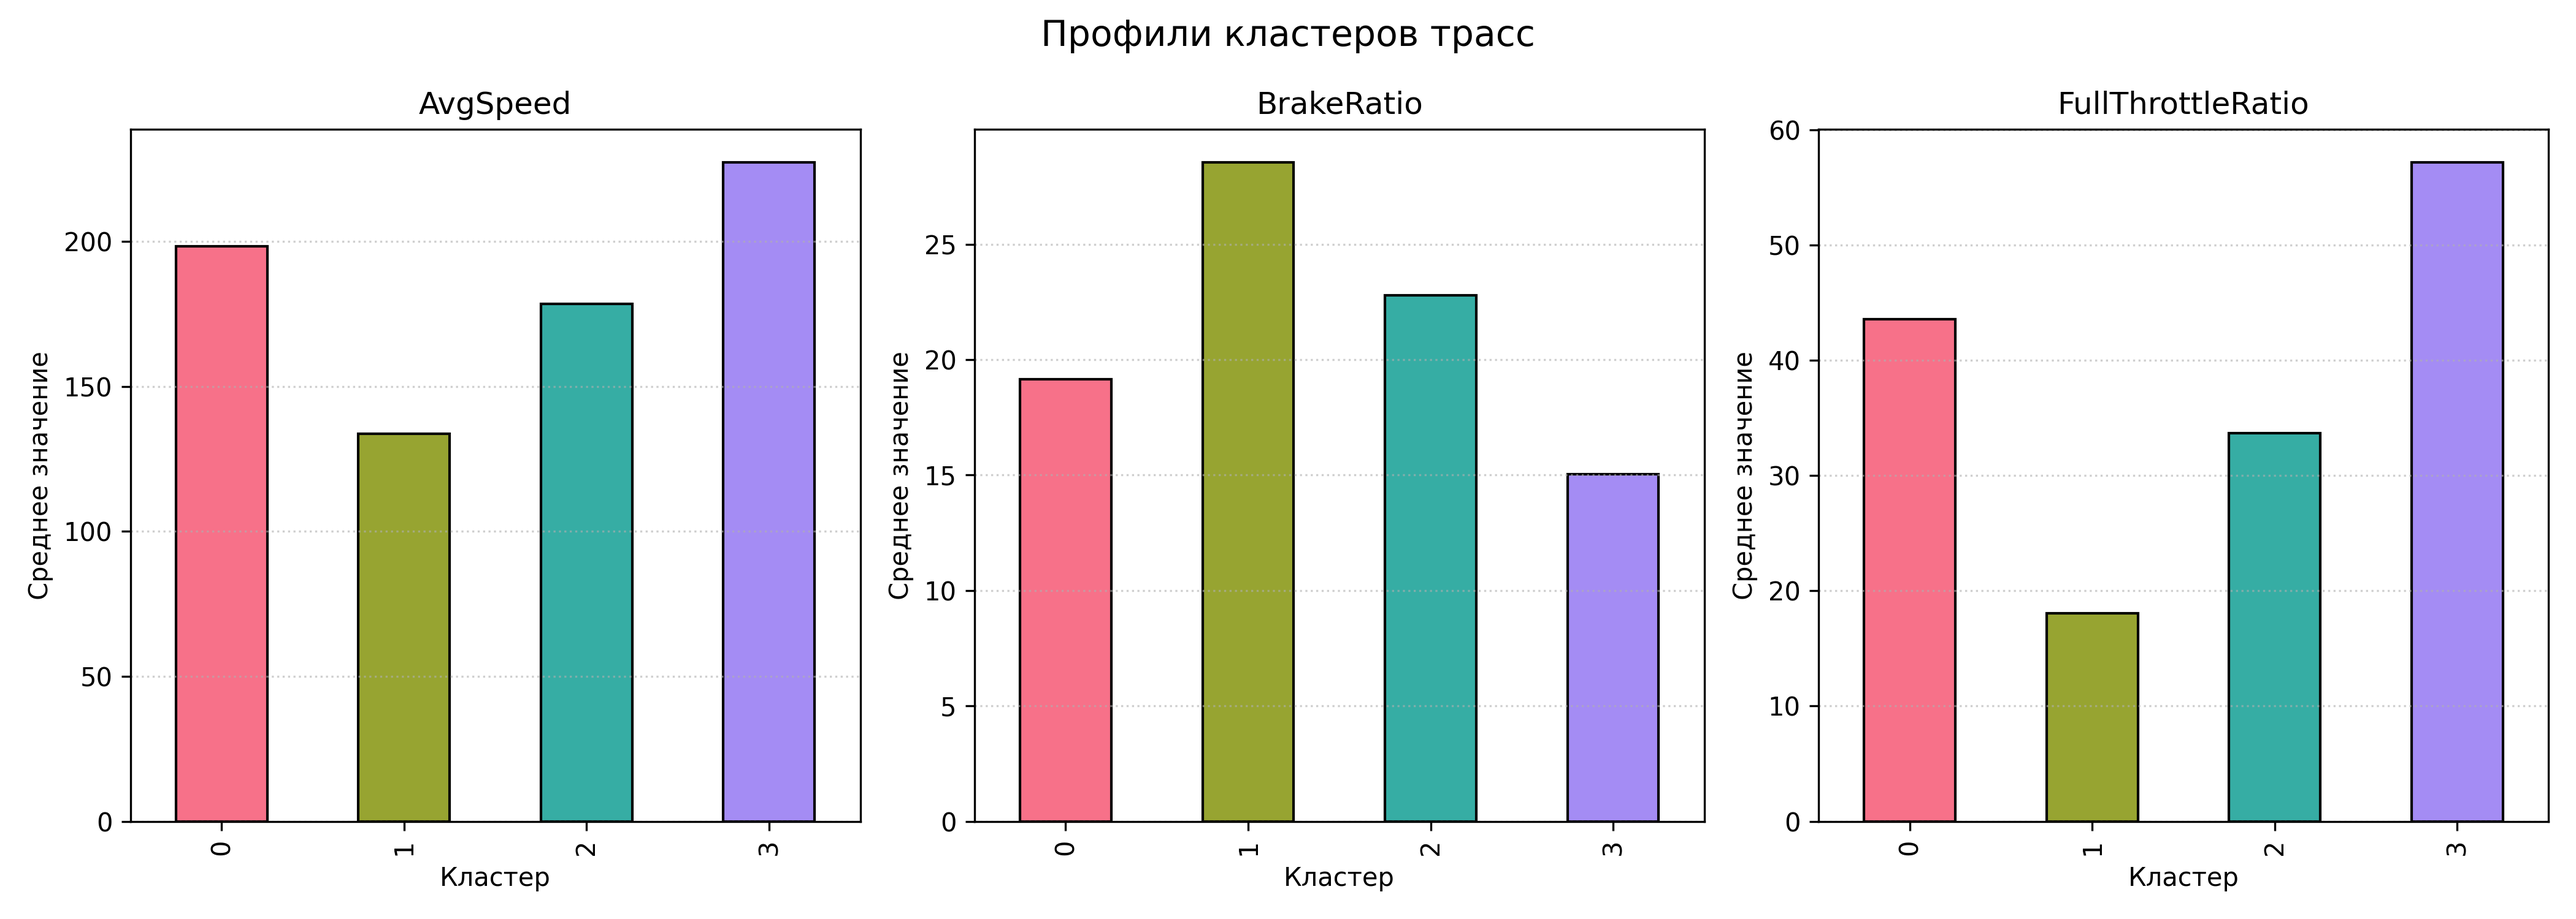
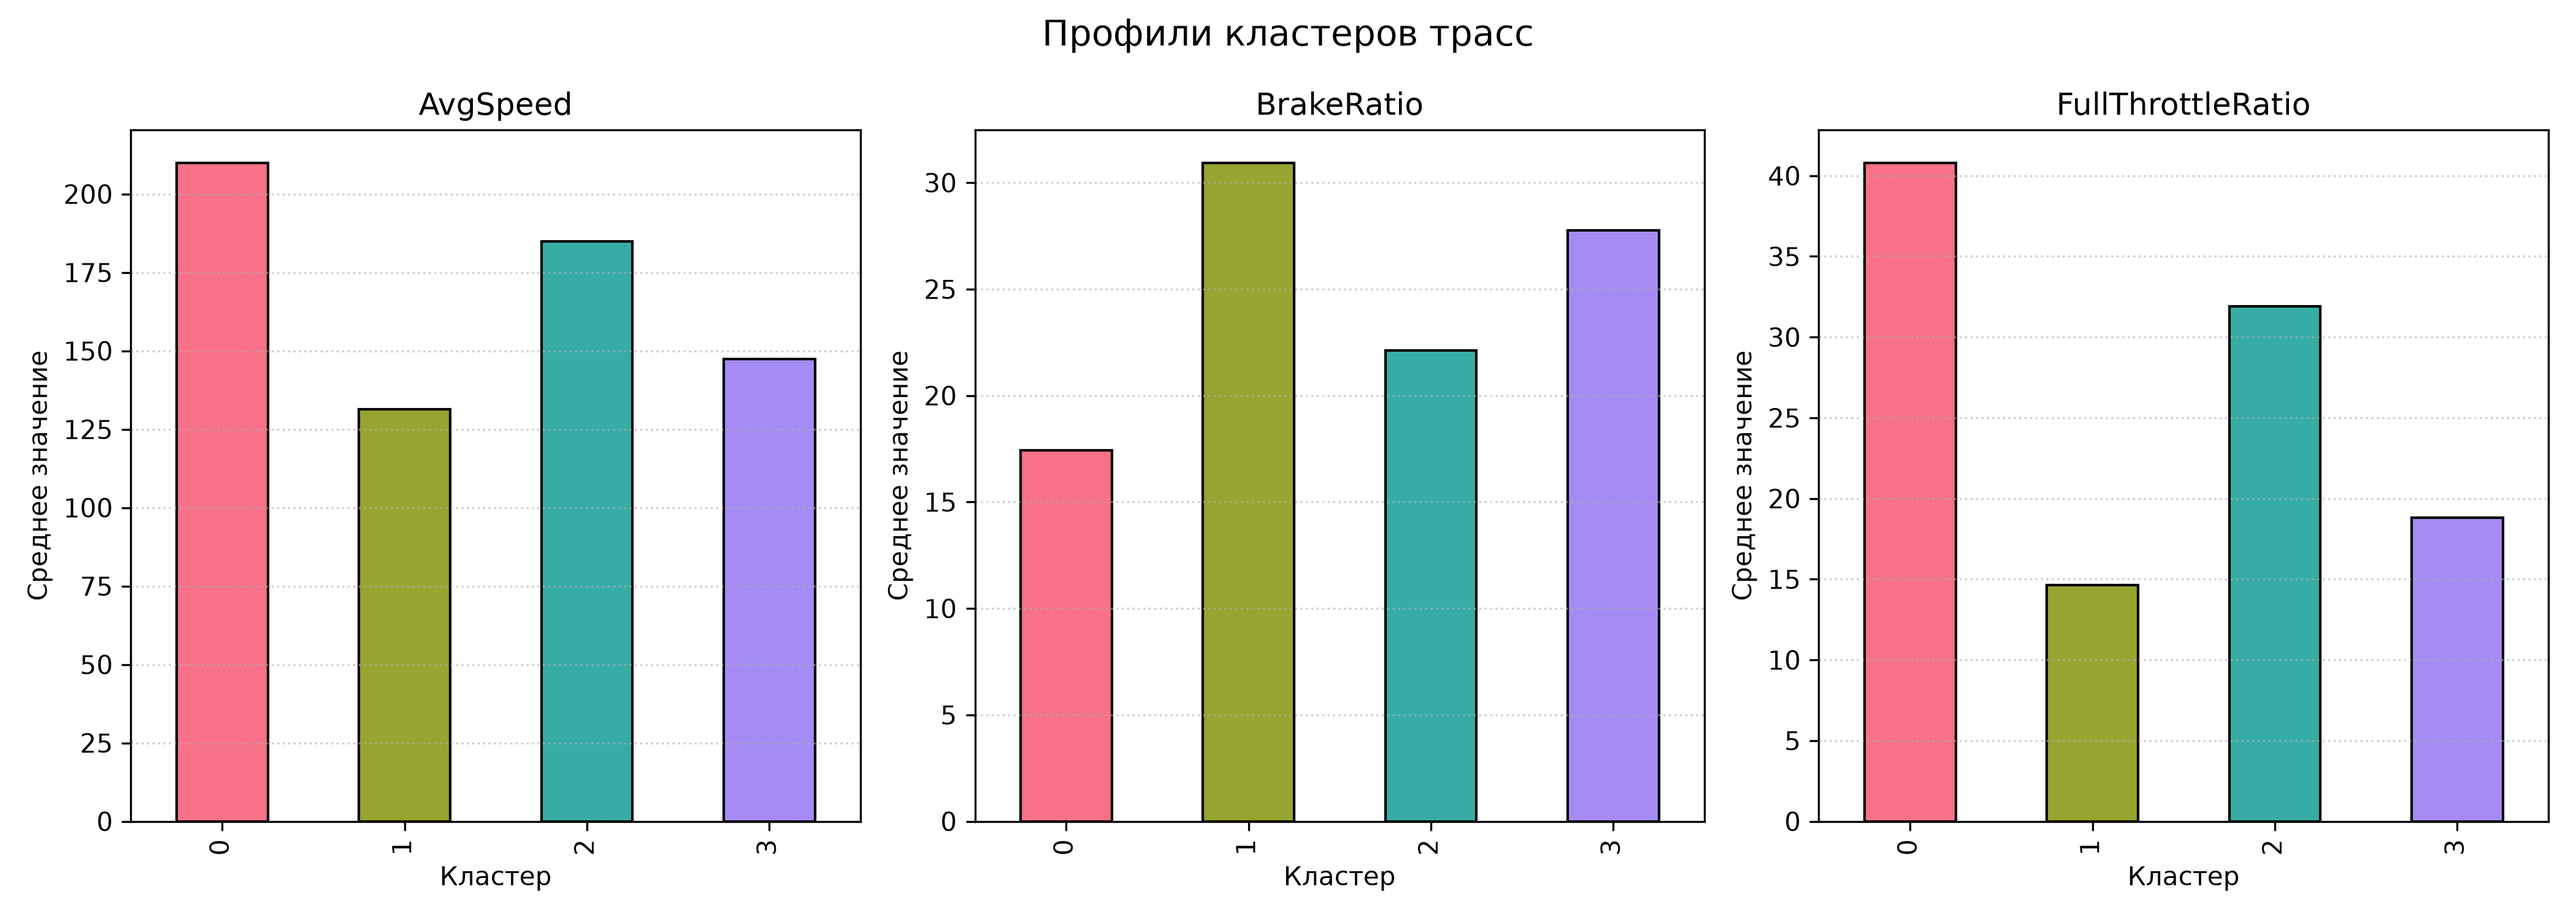
fix: added dashboards to tasks 3 and 4

diff --git a/data_processor/3/spark_processor.py b/data_processor/3/spark_processor.py
@@ -3,23 +3,45 @@ import sys
 import glob
 from pathlib import Path
 
+# --- 1. АВТОМАТИЧЕСКАЯ НАСТРОЙКА ПУТЕЙ ---
+# Получаем абсолютный путь к текущей директории скрипта и корню проекта
+CURRENT_DIR = os.path.dirname(os.path.abspath(__file__))
+PROJECT_ROOT = os.path.abspath(os.path.join(CURRENT_DIR, "..", ".."))
+
+# --- 2. НАСТРОЙКА HADOOP (ДЛЯ WINDOWS) ---
+# Указываем Spark, что winutils.exe находится в папке hadoop/bin внутри проекта
+HADOOP_HOME = os.path.join(PROJECT_ROOT, "hadoop")
+os.environ["HADOOP_HOME"] = HADOOP_HOME
+os.environ["hadoop.home.dir"] = HADOOP_HOME
+os.environ["PATH"] += os.pathsep + os.path.join(HADOOP_HOME, "bin")
 
 os.environ.setdefault("PYSPARK_PYTHON", sys.executable)
 os.environ.setdefault("PYSPARK_DRIVER_PYTHON", sys.executable)
 
 from pyspark.sql import SparkSession, Window, functions as F
 
+
 def run_task3_spark():
     print("Starting Spark Session...")
-    spark = (SparkSession.builder.master("local[*]").appName("task3_anomaly_detection")
+    spark = (SparkSession.builder.master("local[*]")
+             .appName("task3_anomaly_detection")
              .config("spark.driver.memory", "4g").getOrCreate())
 
-    # 1. Load the samples from the local folder
-    # When moving to Big Data, change this to: "../../data/raw_telemetry/*.csv"
-    pattern = "../../samples/*.csv" 
+    # Отключаем лишний спам в консоли (WARN сообщения)
+    spark.sparkContext.setLogLevel("ERROR")
+
+    # --- 3. ПУТЬ К ДАННЫМ ---
+    pattern = os.path.join(PROJECT_ROOT, "data/raw_telemetry", "*.csv")
     files = [Path(p).resolve().as_uri() for p in glob.glob(pattern)]
-    
+
     print(f"Loading {len(files)} files...")
+
+    # Защита от ошибки, если файлы всё-таки не найдены
+    if len(files) == 0:
+        print(f"❌ ОШИБКА: Файлы не найдены по пути: {pattern}")
+        print("Убедитесь, что в папке samples есть csv-файлы!")
+        return
+
     df = spark.read.csv(files, header=True, inferSchema=True)
 
     # 2. The Math (Window Functions)
@@ -33,7 +55,7 @@ def run_task3_spark():
 
     # 3. Find Anomalies (Threshold)
     anomalies = df.filter(
-        (F.col("TrackStatus").cast("int") == 1) & 
+        (F.col("TrackStatus").cast("int") == 1) &
         (F.col("Speed") > 0) &
         ((F.col("Speed_Diff") < -50) | (F.col("RPM_Diff") < -4000))
     )
@@ -42,18 +64,20 @@ def run_task3_spark():
     anomalies = anomalies.withColumn(
         "Anomaly_Reason",
         F.when(
-            (F.col("Speed_Diff") < -50) & 
-            ((F.col("Brake").isNull()) | (F.col("Brake") == False)), 
+            (F.col("Speed_Diff") < -50) &
+            ((F.col("Brake").isNull()) | (F.col("Brake") == False)),
             "Phantom Braking (Tech Failure)"
         ).otherwise("Heavy Braking / Lock-up")
     )
 
     print(f"✅ Found {anomalies.count()} total anomalies!")
-    
+
     # 5. Save to CSV (This will overwrite the old CSV in the folder)
-    output_path = "task3_full_season_anomalies.csv"
+    # Сохраняем в текущую папку (data_processor/3/)
+    output_path = os.path.join(CURRENT_DIR, "task3_full_season_anomalies.csv")
     anomalies.toPandas().to_csv(output_path, index=False)
     print(f"✅ Saved results to {output_path}")
+
 
 if __name__ == "__main__":
     run_task3_spark()

diff --git a/dashboard/4/app.py b/dashboard/4/app.py
@@ -1,0 +1,52 @@
+import streamlit as st
+import pandas as pd
+import os
+
+st.set_page_config(page_title="Task 4: Track Clustering", layout="wide")
+st.title("🏁 Task 4: F1 Track Clustering")
+st.write("Результаты кластеризации гоночных трасс с помощью алгоритма K-Means (Apache Spark).")
+
+# --- НАСТРОЙКА ПУТЕЙ ---
+current_dir = os.path.dirname(os.path.abspath(__file__))
+project_root = os.path.abspath(os.path.join(current_dir, '..', '..'))
+
+# Указываем путь к папке reports, которую создал твой Spark-скрипт
+reports_dir = os.path.join(project_root, 'data_processor', '4', 'reports')
+clusters_file = os.path.join(reports_dir, 'track_clusters.csv')
+
+if not os.path.exists(clusters_file):
+    st.error(f"❌ Файл не найден: {clusters_file}")
+    st.warning("Убедитесь, что вы запускали скрипт из папки data_processor/4")
+else:
+    # 1. Читаем данные
+    df = pd.read_csv(clusters_file)
+
+    # 2. Показываем распределение трасс по кластерам
+    st.subheader("🏎 Состав кластеров")
+    clusters = sorted(df['Cluster'].unique())
+
+    for c in clusters:
+        tracks = df[df['Cluster'] == c]['GrandPrix'].tolist()
+        st.info(f"**Кластер {c}** ({len(tracks)} трасс): {', '.join(tracks)}")
+
+    # 3. Выводим таблицу (ИСПРАВЛЕНО ДЛЯ НОВЫХ ВЕРСИЙ STREAMLIT)
+    st.subheader("📊 Таблица данных")
+    st.dataframe(df, width='stretch')
+
+    # 4. Показываем графики, которые УЖЕ сохранил Spark
+    st.subheader("📈 Графики кластеризации")
+
+    scatter_img = os.path.join(reports_dir, "task4_scatter.png")
+    profiles_img = os.path.join(reports_dir, "task4_cluster_profiles.png")
+    elbow_img = os.path.join(reports_dir, "task4_elbow.png")
+
+    # Выводим картинки, если они существуют
+    if os.path.exists(scatter_img):
+        st.image(scatter_img, caption="Проекция трасс (Скорость vs Торможение)")
+
+    if os.path.exists(profiles_img):
+        st.image(profiles_img, caption="Профили признаков по кластерам")
+
+    if os.path.exists(elbow_img):
+        with st.expander("Посмотреть график метода локтя"):
+            st.image(elbow_img)

diff --git a/dashboard/3/app.py b/dashboard/3/app.py
@@ -9,9 +9,15 @@ st.title("🏎 Task 3: F1 Anomaly Detection (Spark + Streamlit)")
 st.write("This dashboard visualizes anomalies processed by Apache Spark, distinguishing between normal lock-ups and technical failures.")
 
 # --- PATH SETUP ---
+# Определяем пути относительно текущей папки (dashboard/3)
 current_dir = os.path.dirname(os.path.abspath(__file__))
-anomaly_file = os.path.join(current_dir, 'task3_full_season_anomalies.csv')
-samples_dir = os.path.join(current_dir, '..', '..', 'samples')
+# Выходим на два уровня вверх к корню проекта (f1datascience)
+project_root = os.path.abspath(os.path.join(current_dir, '..', '..'))
+
+# Файл с аномалиями лежит там, куда его сохранил Spark
+anomaly_file = os.path.join(project_root, 'data_processor', '3', 'task3_full_season_anomalies.csv')
+# Сырые телеметрии лежат в папке samples
+samples_dir = os.path.join(project_root, 'samples')
 
 # The full 2022 driver grid
 ALL_DRIVERS = ["VER", "PER", "LEC", "SAI", "HAM", "RUS", "NOR", "RIC", "ALO", "OCO", "GAS", "TSU", "VET", "STR", "MAG", "MSC", "BOT", "ZHO", "ALB", "LAT"]

diff --git a/data_processor/4/task4_spark.py b/data_processor/4/task4_spark.py
@@ -7,8 +7,8 @@ import numpy as np
 CURRENT_DIR = os.path.dirname(os.path.abspath(__file__))
 PROJECT_ROOT = os.path.abspath(os.path.join(CURRENT_DIR, "..", ".."))
 
-# HADOOP_HOME = os.path.join(PROJECT_ROOT, "hadoop")
-HADOOP_HOME = "/opt/homebrew/opt/hadoop/libexec"
+HADOOP_HOME = os.path.join(PROJECT_ROOT, "hadoop")
+#HADOOP_HOME = "/opt/homebrew/opt/hadoop/libexec"
 os.environ["HADOOP_HOME"] = HADOOP_HOME
 os.environ["hadoop.home.dir"] = HADOOP_HOME
 os.environ["PATH"] += os.pathsep + os.path.join(HADOOP_HOME, "bin")
@@ -21,8 +21,8 @@ from pyspark.ml.clustering import KMeans
 from pyspark.ml.evaluation import ClusteringEvaluator
 from pyspark.ml import Pipeline
 
-# DATA_DIR = os.path.join(PROJECT_ROOT, "data", "raw_telemetry")
-DATA_DIR = os.path.join(PROJECT_ROOT, "samples")
+DATA_DIR = os.path.join(PROJECT_ROOT, "data", "raw_telemetry")
+#DATA_DIR = os.path.join(PROJECT_ROOT, "samples")
 REPORTS_DIR = os.path.join(CURRENT_DIR, "reports")
 TRACK_FEATURES_PATH = os.path.join(PROJECT_ROOT, "data", "task4_track_features.csv")
 
